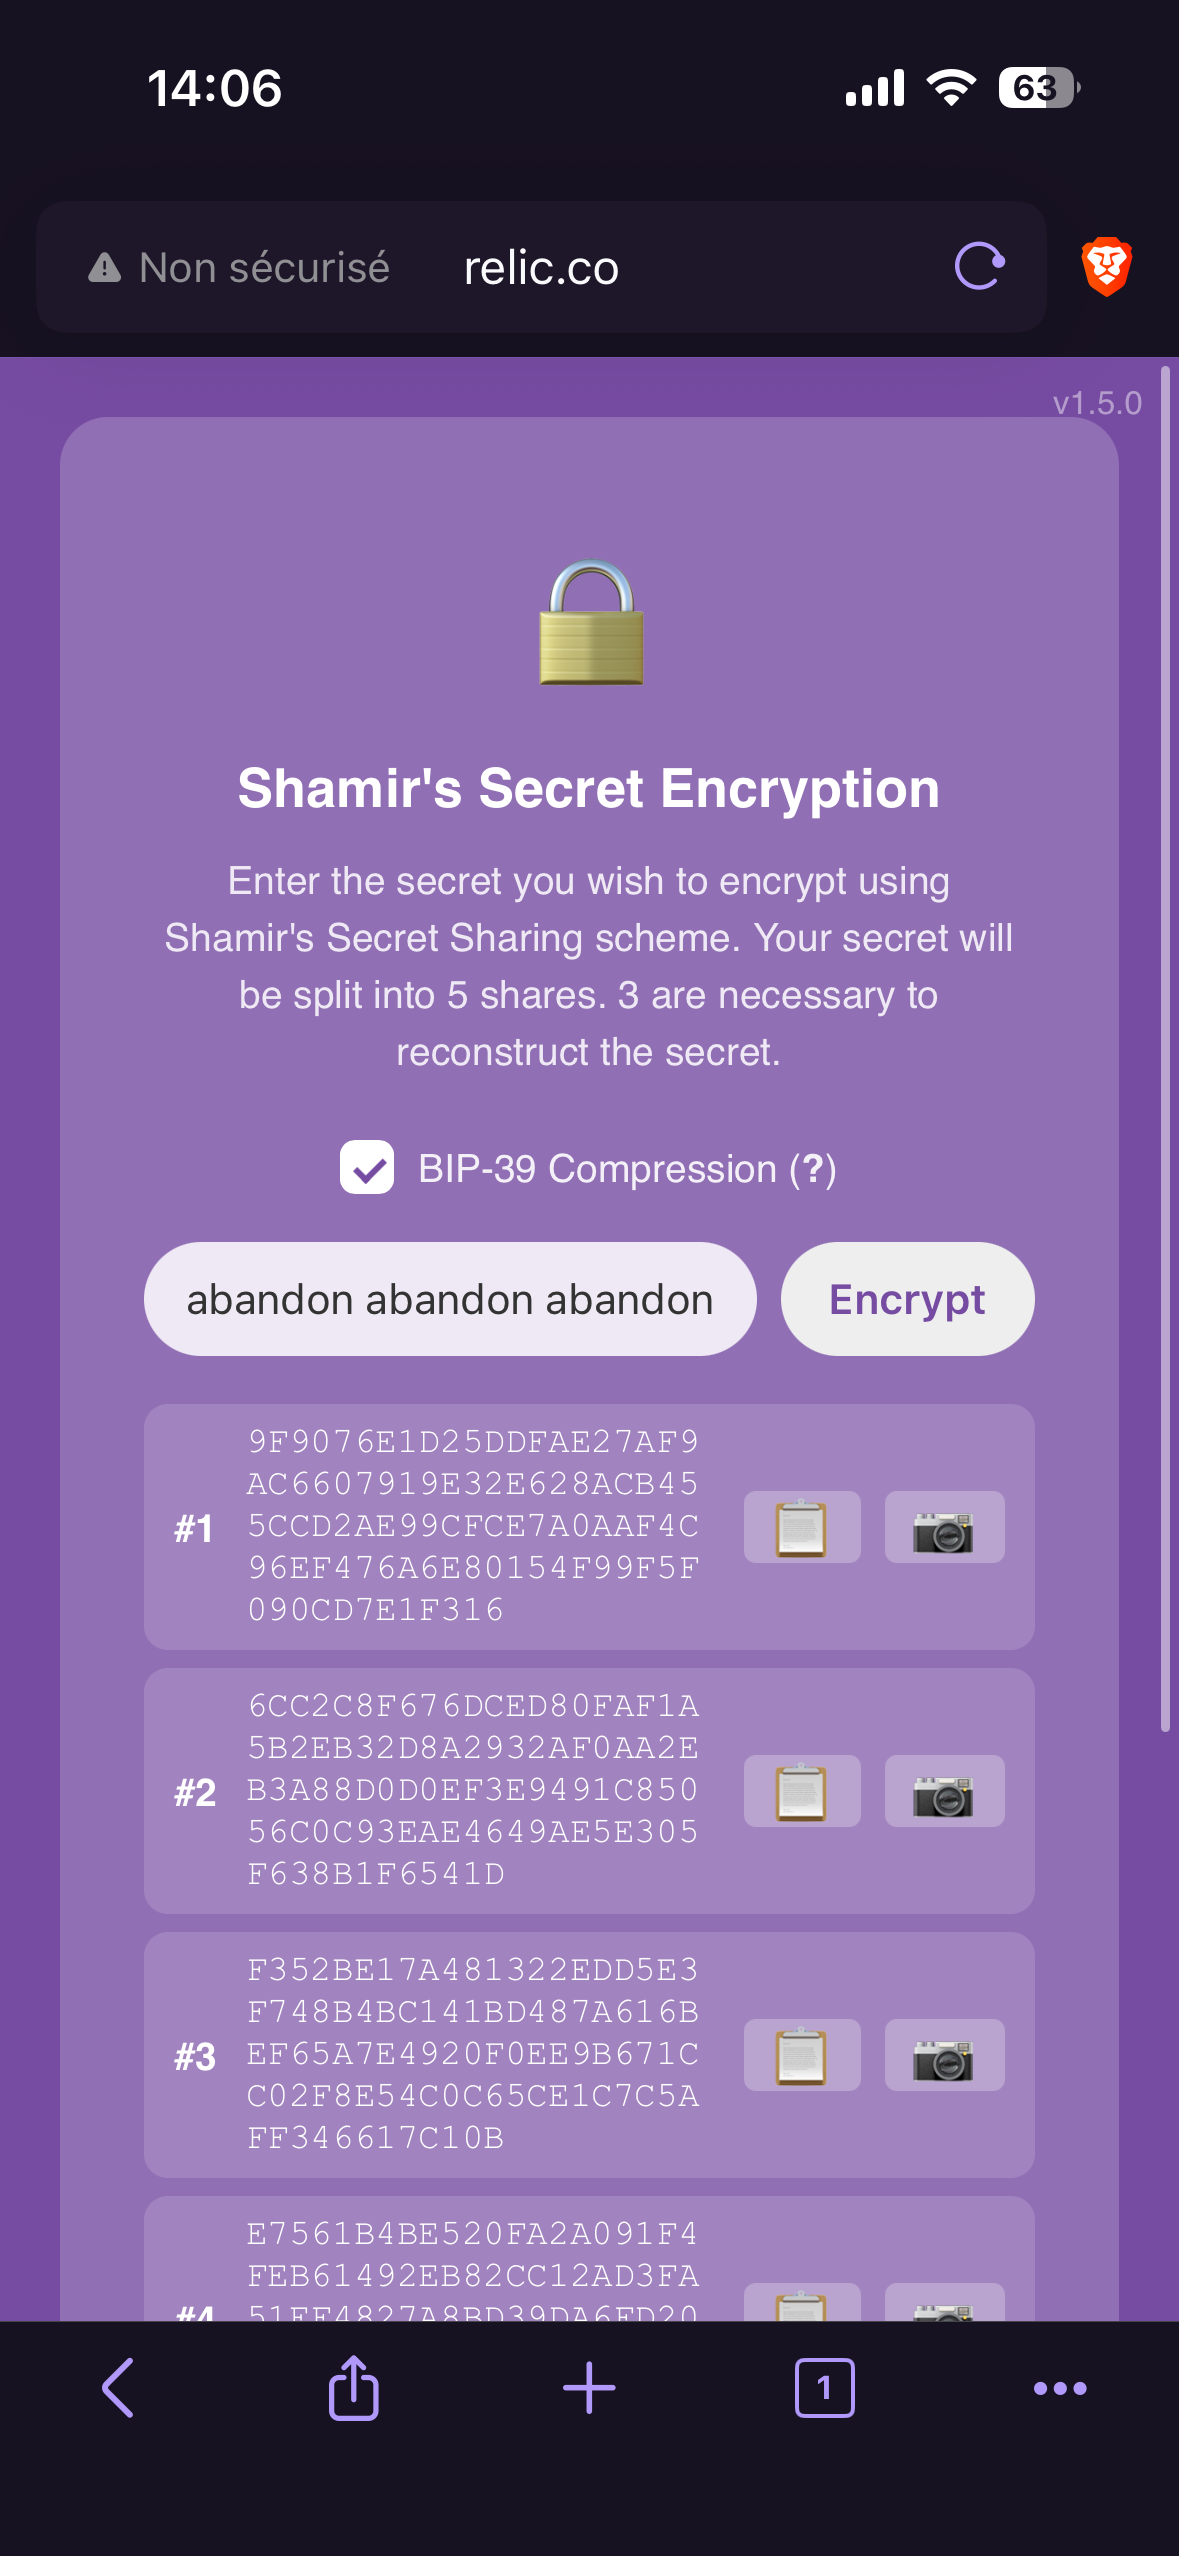
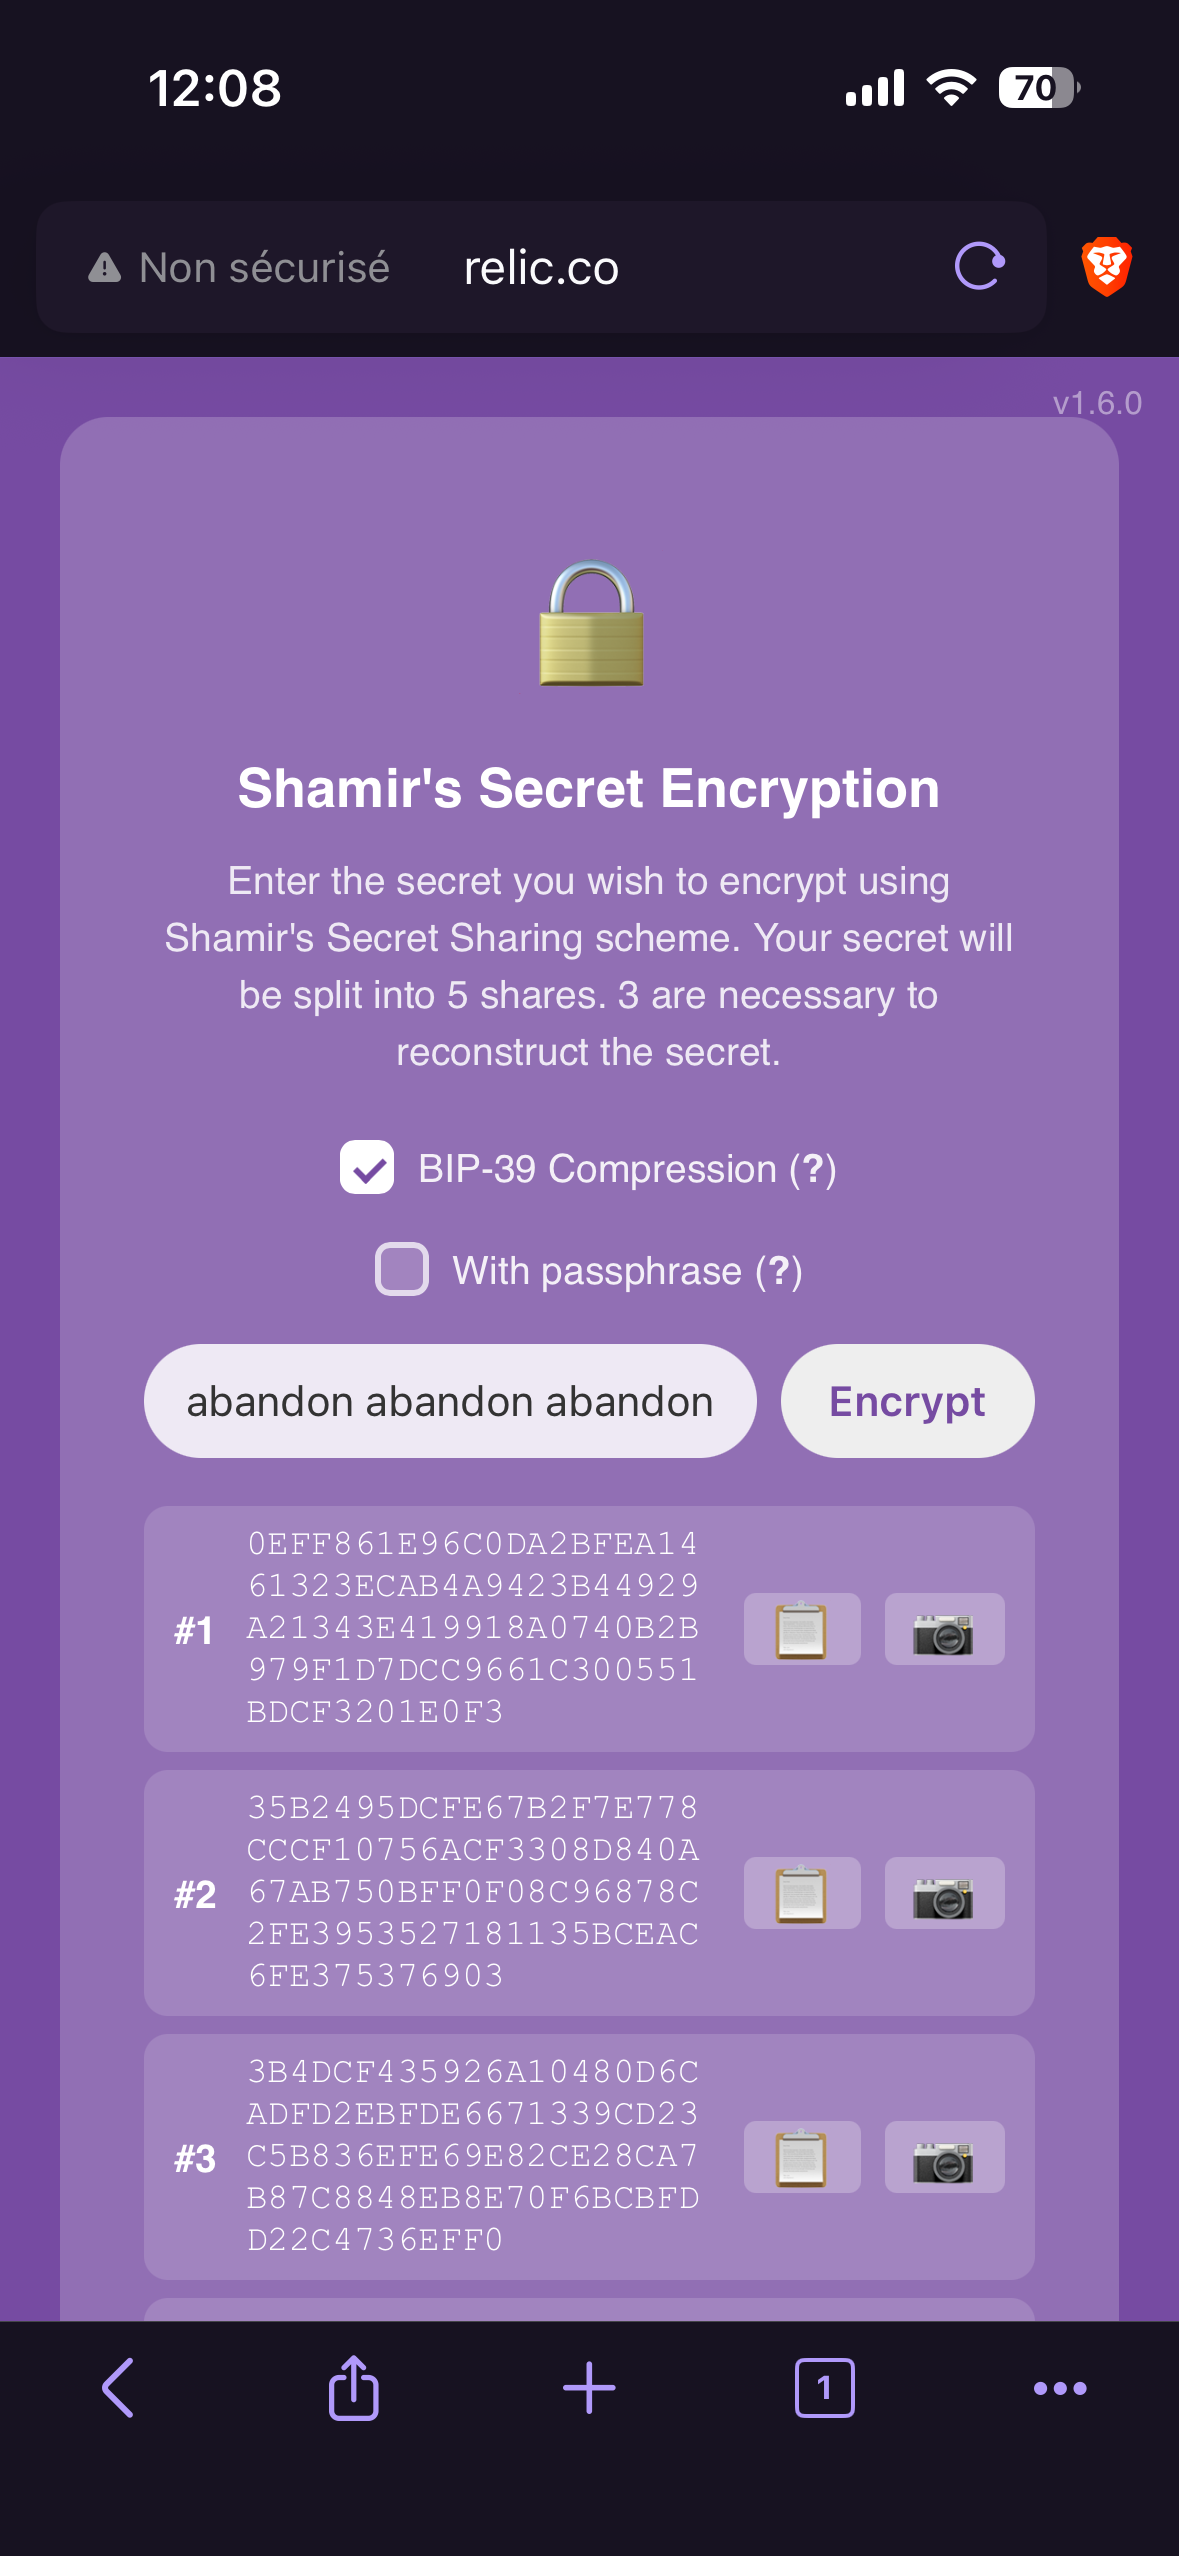
added(bonux_crypto_seedphrase): passphrase udpate from relic-core

diff --git a/docs/bonus_crypto_seedphrase.md b/docs/bonus_crypto_seedphrase.md
@@ -24,6 +24,20 @@ All you have to do to activate the compression is check the `BIP-39 compression`
 
 From there, the process is the same. Shares are generated and you can distribute them as you want (except that you benefit from shorter pieces of your secret).
 
+### Adding a pass phrase
+
+If you're using a passphrase with a hidden wallet, you can also check the box `With passphrase` before tapping "Encrypt".
+
+This will compress the seed phrase using the index of each word but leave the passphrase untouched.
+
+**Important note**: The format used to include the passphrase in the seed phrase is as follows:
+
+```bash
+"abandon abandon zoo; passphrase"
+```
+
+You need to separate the seed phrase from the passphrase with a semicolon (`;`).
+
 ## How to recover your secret with BIP-39 compression
 
 As explained in the [recovery secret](4_recover-your-secret.md) page, you can recover your secret by entering the shares manually or by scanning their corresponding QR codes.
@@ -31,3 +45,7 @@ As explained in the [recovery secret](4_recover-your-secret.md) page, you can re
 All you have to do to activate the compression is check the `BIP-39 compression` box before tapping on "Reconstruct".
 
 ![bip39 unsplit page](img/bip39_unsplit.PNG){ width="300" }
+
+### Adding a pass phrase
+
+If you know the secret you're trying to recover is a BIP-39 seed phrase that includes a passphrase, all you need to do is check the `With passphrase` box and scan your QR codes (or enter the shares manually) before hitting the `Reconstruct` button.

diff --git a/README.md b/README.md
@@ -8,7 +8,7 @@
 # R.E.L.I.C
 <i>Recovery and Encryption via Lagrange Interpolated Components</i>
 
-[![Relic-core](https://img.shields.io/badge/Relic_core-v1.5.0-orange)](https://github.com/ficaud/relic-core)
+[![Relic-core](https://img.shields.io/badge/Relic_core-v1.6.0-orange)](https://github.com/ficaud/relic-core)
 [![Docs](https://img.shields.io/badge/Docs-GitHub_Pages-blue)](https://ficaud.github.io/relic-hw/)
 
 </div>
@@ -42,10 +42,11 @@ If it's running in the background (for example, started with `&` or from a diffe
 pkill -f "mkdocs serve"
 ```
 
-Or, to target the specific port:
+Or, if there is something running on the same port, you can target it and kill it:
 
 ```bash
-lsof -ti :8000 | xargs kill
+lsof -i :8000
+kill -9 PID
 ```
 
 The site is automatically rebuilt and deployed to GitHub Pages on every push to `main` (see `.github/workflows/deploy.yml`). The deployment uses the official GitHub Pages Actions (`actions/deploy-pages`), which publish the built site directly as a Pages artifact — it does **not** rely on GitHub pushing from the `gh-pages` branch.

diff --git a/docs/index.md b/docs/index.md
@@ -49,6 +49,8 @@ Good candidates include, the master password that unlocks your password manager,
 
 ## How to build a Relic
 
+**WARNING:** Some of the screenshots in this documentation are outdated and may not reflect the current Relic UI.
+
 Building your own Relic is a step-by-step journey. The steps below will walk you through each part of the process, from the hardware to how you handle your shares once they exist.
 
 - [Learn more](1_setup-hardware.md) about the brain of the Relic device.

diff --git a/docs/2_create-shares.md b/docs/2_create-shares.md
@@ -40,7 +40,7 @@ The QR code is generated on the fly and never stored on the device. It can be sc
 > Note: You'll learn about the best ways to distribute your shares in the next step, [Distribute Shares](3_distribute-shares.md).
 
 
-## Bonus : Crypto seed phrase
+## Bonus : Crypto seed phrase & pass phrase
 
 If you want to split a seed phrase to secure your crypto assets, you can use the BIP-39 compression to reduce the qrcode size (which is recommended).
 

diff --git a/docs/4_recover-your-secret.md b/docs/4_recover-your-secret.md
@@ -24,7 +24,7 @@ If you choose the QR code scanner, make sure you're standing directly in front o
 
 ![success unsplit secret](img/success_unsplit_secret.PNG){ width="300" }
 
-## Bonus : Crypto seed phrase
+## Bonus : Crypto seed phrase & pass phrase
 
 > Note: As you can see, the screenshots above are showing what it looks like to have a qrcode for seed phrase before the BIP-39 compression was implemented.
 
